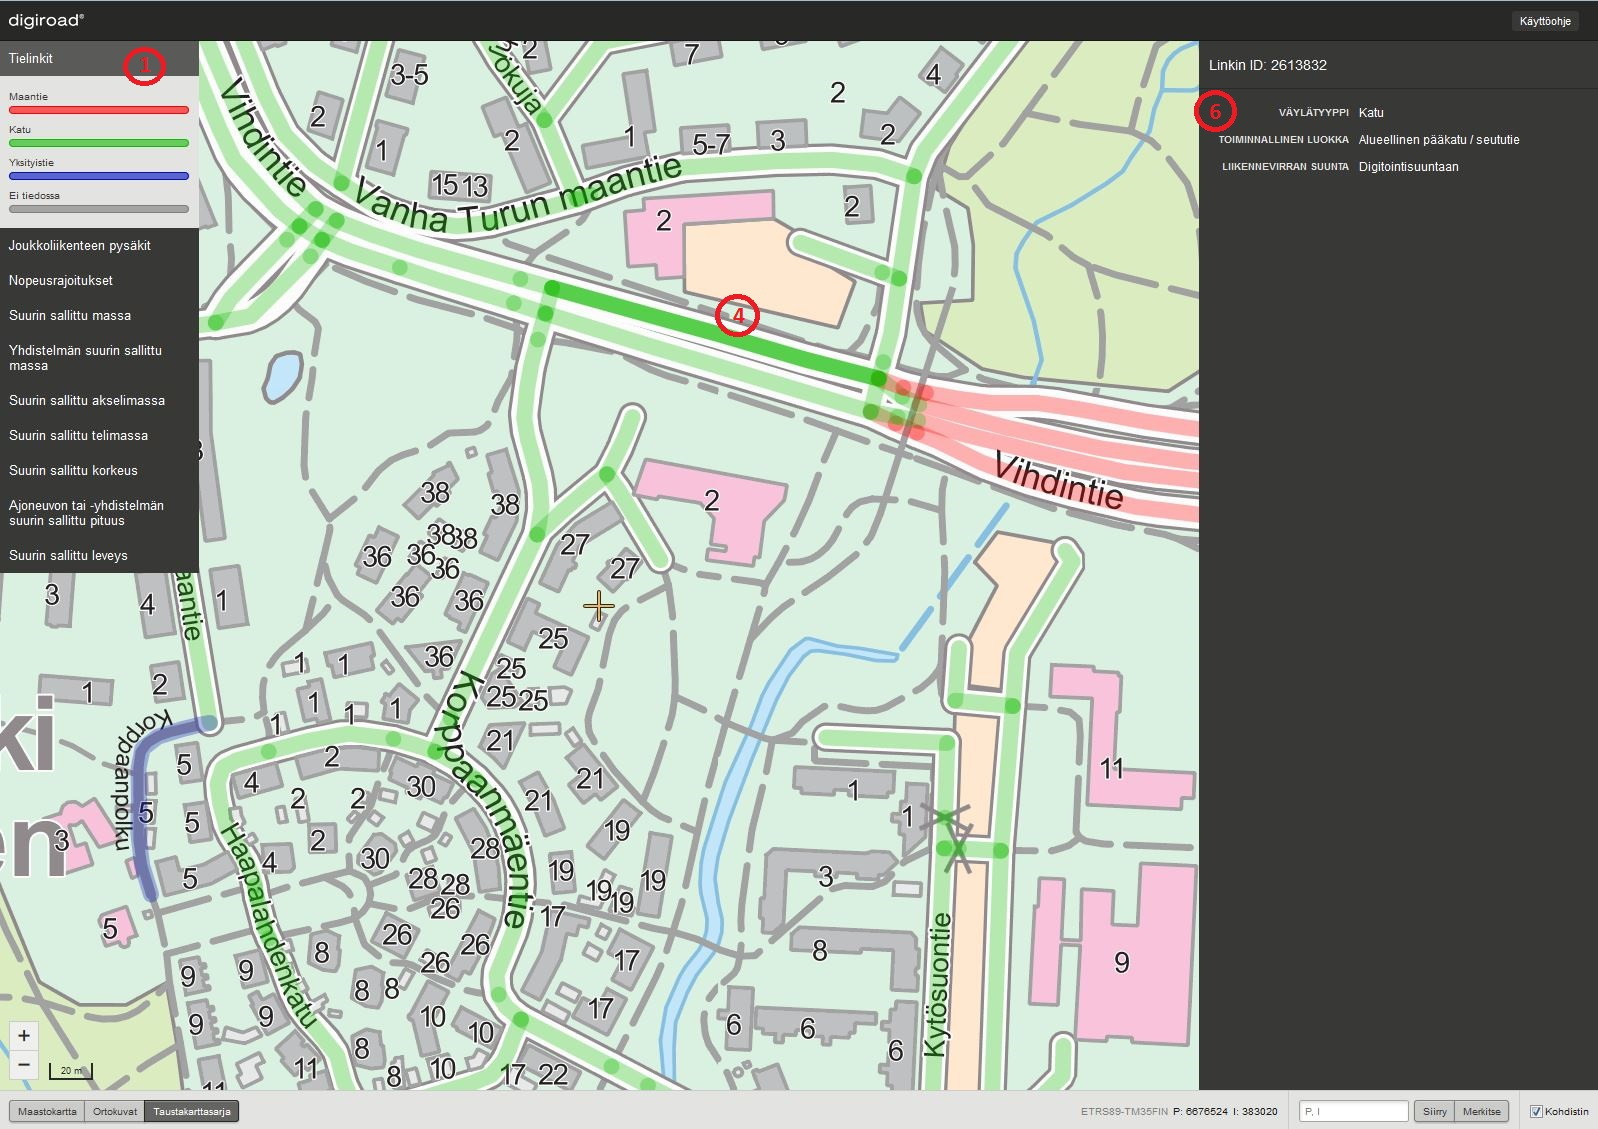
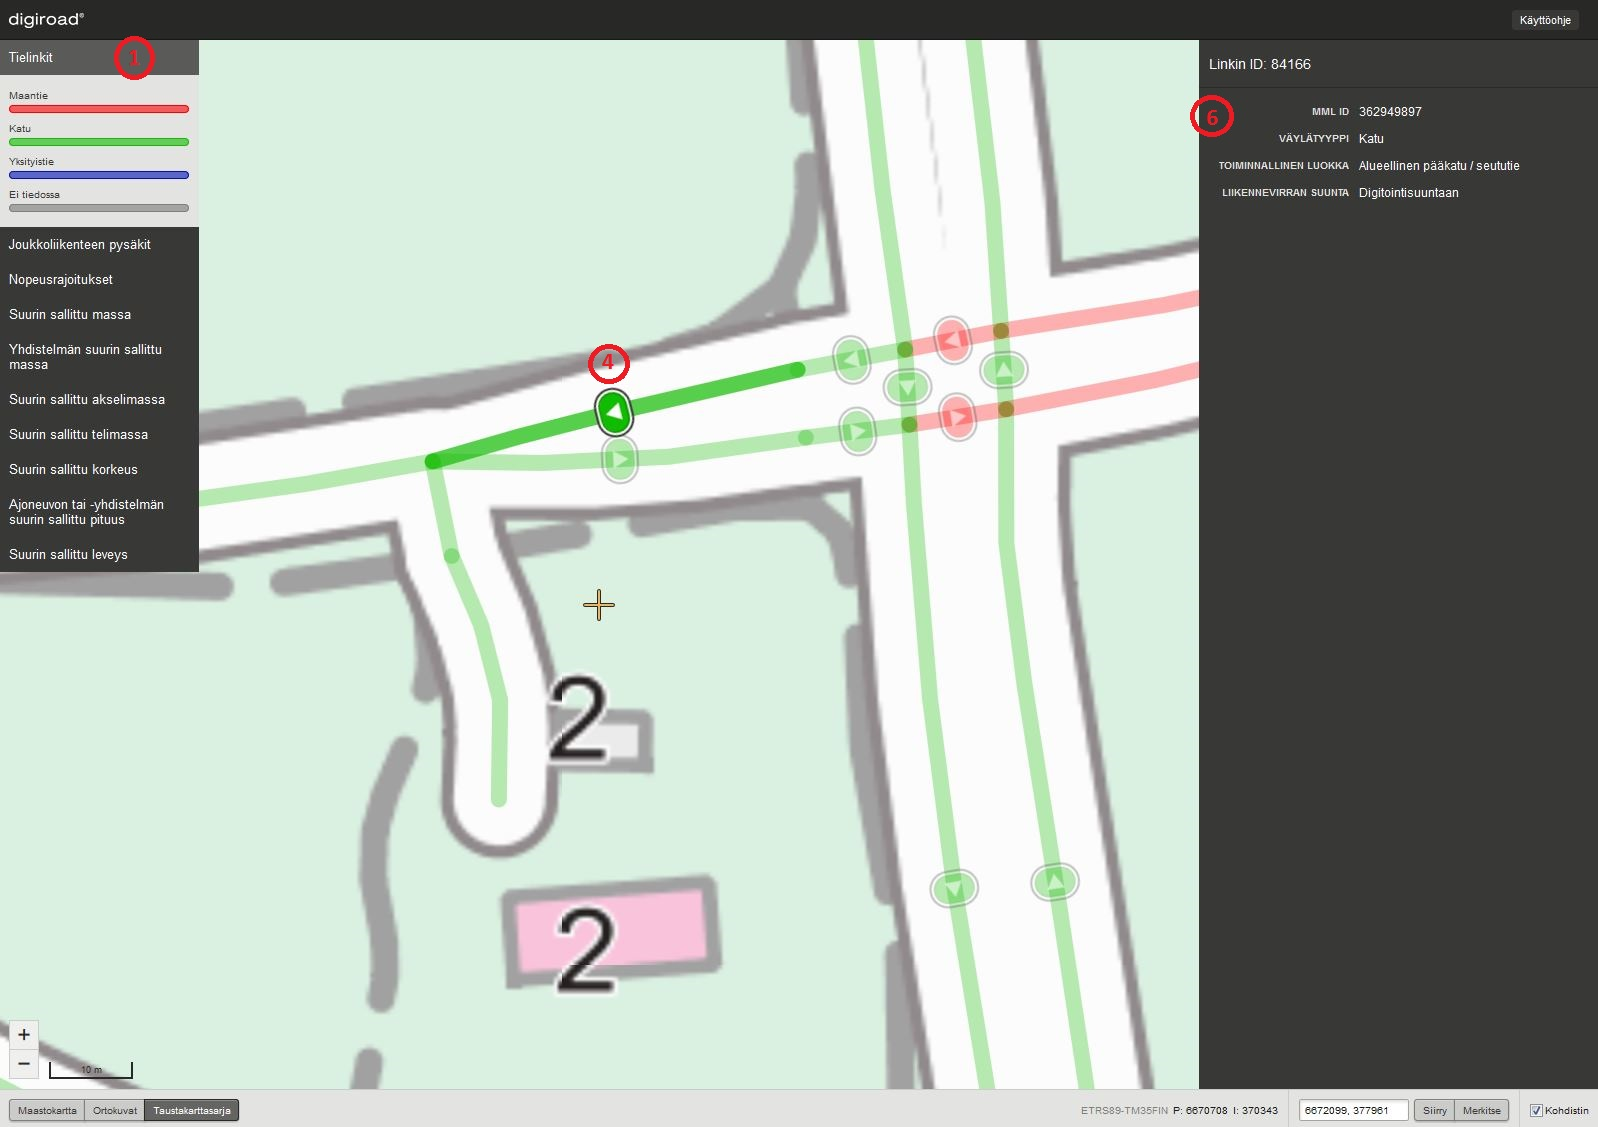
add road link MML ID to manual

diff --git a/UI/manual/index.md b/UI/manual/index.md
@@ -224,9 +224,9 @@ Katselutila on sovelluksen tietolajien katselemista varten. Katselutilassa ei vo
 4.1 Tielinkin tietojen katselu
 ------------------------------
 
-Yksitt&auml;isen tielinkin ominaisuustiedot tulevat n&auml;kyviin, kun tielinkin geometriaa kartalla klikataan (4). T&auml;ll&ouml;in tielinkin geometria korostuu kartalla ja sen ominaisuustiedot avautuvat ominaisuustieton&auml;kym&auml;&auml;n (6). Tielinkin ominaisuustietoja ovat tielinkin ID, v&auml;yl&auml;tyyppi, toiminnallinen luokka ja liikennevirran suunta.
+Yksitt&auml;isen tielinkin ominaisuustiedot tulevat n&auml;kyviin, kun tielinkin geometriaa kartalla klikataan (4). T&auml;ll&ouml;in tielinkin geometria korostuu kartalla ja sen ominaisuustiedot avautuvat ominaisuustieton&auml;kym&auml;&auml;n (6). Tielinkin ominaisuustietoja ovat tielinkin ID, Maanmittauslaitoksen ID (MML ID), v&auml;yl&auml;tyyppi, toiminnallinen luokka ja liikennevirran suunta.
 
-Tielinkit on visualisoitu v&auml;yl&auml;tyypin mukaan siten, ett&auml; maantiet ovat punaisia, kadut vihreit&auml; ja yksityistiet sinisi&auml;. Ne tielinkit, joilla ei ole v&auml;yl&auml;tyyppi&auml;, on visualisoitu harmaaksi.
+Tielinkit on visualisoitu v&auml;yl&auml;tyypin mukaan siten, ett&auml; maantiet ovat punaisia, kadut vihreit&auml; ja yksityistiet sinisi&auml;. Ne tielinkit, joilla ei ole v&auml;yl&auml;tyyppi&auml;, on visualisoitu harmaaksi. Niill&auml; tielinkeill&auml;, joiden liikennevirran suunta on yhteen suuntaan, on visualisoitu suuntanuoli osoittamaan liikennevirran suuntaan.
 
 ![Tielinkit](k7.jpg)
 
